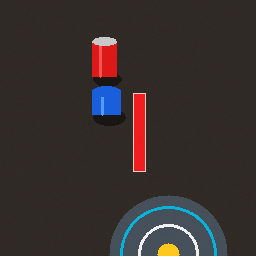
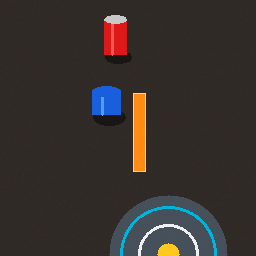
feat: implement sequential task queueing, unique object trajectory profiles, and center red pad alignment

Changed region(s): [[0.3438, 0.0312, 0.5, 0.3438], [0.5, 0.3438, 0.5938, 0.6875]]

diff --git a/src/vla_motion_planning/vla_motion_planning/trajectory_executor_node.py b/src/vla_motion_planning/vla_motion_planning/trajectory_executor_node.py
@@ -146,6 +146,8 @@ class TrajectoryExecutorNode(Node):
         self.planned_path_points = []
         self.delivered_payload = None
         self.delivered_objects = set()
+        self.pending_tasks_queue = []
+        self.current_trajectory_color = (0.0, 0.75, 0.95, 0.90)
 
         self.timer = self.create_timer(0.02, self.control_tick) # 50 Hz control loop
         self.get_logger().info('VLA Trajectory Executor & Dynamic Object Reparenting online.')
@@ -206,40 +208,44 @@ class TrajectoryExecutorNode(Node):
             self.get_logger().error(f'Error applying VLA delta action: {e}')
 
     def dispatch_callback(self, msg):
-        if self.is_executing:
-            self.get_logger().warning('Currently executing another trajectory. Ignoring new dispatch.')
-            return
-
         try:
             plan = json.loads(msg.data)
-            target_frame = plan['target_frame']
-            dest_frame = plan['destination_frame']
-            avoid_obs = plan.get('avoid_obstacle', True)
-
-            if target_frame in self.delivered_objects:
-                self.delivered_objects.remove(target_frame)
-
-            try:
-                t_obj = self.tf_buffer.lookup_transform('base_link', target_frame, rclpy.time.Time())
-                p_src = np.array([t_obj.transform.translation.x, t_obj.transform.translation.y, t_obj.transform.translation.z])
-            except Exception:
-                p_src = np.array(self.objects[target_frame]['pos'])
-
-            # Resolve Dedicated Non-Overlapping Target Slot for this payload
-            p_dst = np.array(self.docking_slots.get(target_frame, self.platform['pos']))
-
-            self.get_logger().info(f'Planning Collision-Aware Trajectory from {p_src} to {p_dst} (Obstacle Avoidance={avoid_obs})...')
-            self.build_collision_aware_trajectory(p_src, p_dst, target_frame, avoid_obs)
-            self.is_executing = True
-
+            if self.is_executing:
+                self.pending_tasks_queue.append(plan)
+                self.get_logger().info(
+                    f'>>> TASK QUEUED: [{plan.get("target_name", "Object")}] added to pending queue. '
+                    f'Total queued: {len(self.pending_tasks_queue)}'
+                )
+                return
+            self.execute_plan(plan)
         except Exception as e:
-            self.get_logger().error(f'Failed resolving TF target poses: {e}')
+            self.get_logger().error(f'Failed parsing task dispatch: {e}')
+
+    def execute_plan(self, plan):
+        target_frame = plan['target_frame']
+        dest_frame = plan['destination_frame']
+        avoid_obs = plan.get('avoid_obstacle', True)
+
+        if target_frame in self.delivered_objects:
+            self.delivered_objects.remove(target_frame)
+
+        try:
+            t_obj = self.tf_buffer.lookup_transform('base_link', target_frame, rclpy.time.Time())
+            p_src = np.array([t_obj.transform.translation.x, t_obj.transform.translation.y, t_obj.transform.translation.z])
+        except Exception:
+            p_src = np.array(self.objects[target_frame]['pos'])
+
+        # Resolve Dedicated Non-Overlapping Target Slot for this payload
+        p_dst = np.array(self.docking_slots.get(target_frame, self.platform['pos']))
+
+        self.get_logger().info(f'Planning Collision-Aware Trajectory for {target_frame} from {p_src} to {p_dst} (Obstacle Avoidance={avoid_obs})...')
+        self.build_collision_aware_trajectory(p_src, p_dst, target_frame, avoid_obs)
+        self.is_executing = True
 
     def build_collision_aware_trajectory(self, p_src, p_dst, obj_name, avoid_obs):
         self.trajectory_queue.clear()
         self.planned_path_points.clear()
         hover_z = 0.18
-        high_corridor_z = 0.44
 
         p_src_hover = p_src + np.array([0, 0, hover_z])
         p_dst_hover = p_dst + np.array([0, 0, hover_z])
@@ -256,39 +262,44 @@ class TrajectoryExecutorNode(Node):
         self.trajectory_queue.append(('ATTACH', obj_name, 0.1))
         self.add_cartesian_segment(p_src_hover, gripper=0.015, duration=1.2)
 
-        # 2. Strict Collision Avoidance Transit: High Bridge Corridor
-        if avoid_obs:
-            # Check if trajectory intersects the obstacle barrier corridor (Y in [-0.08, 0.18])
-            y_start, y_end = p_src[1], p_dst[1]
-            if (y_start < 0.05 < y_end) or (y_end < 0.05 < y_start):
-                # 3-point high clearance plateau bridge over the barrier
-                # 2.1 Climb up before reaching the obstacle zone
-                wp_climb = np.array([p_src[0], -0.12 if y_start < y_end else 0.22, high_corridor_z])
-                self.planned_path_points.append(list(wp_climb))
-                self.add_cartesian_segment(wp_climb, gripper=0.015, duration=1.8)
+        # 2. Unique, Specialized Trajectory Profiles per Object
+        if obj_name == 'blue_box':
+            # Profile 1 (Blue Mug): Flank Bypass Sweep around obstacle perimeter
+            self.current_trajectory_color = (0.15, 0.55, 1.0, 0.95) # Royal Azure
+            wp_flank1 = np.array([0.48, 0.00, 0.32])
+            wp_flank2 = np.array([0.48, 0.15, 0.32])
+            self.planned_path_points.append(list(wp_flank1))
+            self.add_cartesian_segment(wp_flank1, gripper=0.015, duration=1.8)
+            self.planned_path_points.append(list(wp_flank2))
+            self.add_cartesian_segment(wp_flank2, gripper=0.015, duration=1.8)
 
-                # 2.2 Cruise horizontally directly over the obstacle with generous vertical clearance (>22cm)
-                wp_cross = np.array([0.40, 0.05, high_corridor_z])
-                self.planned_path_points.append(list(wp_cross))
-                self.add_cartesian_segment(wp_cross, gripper=0.015, duration=1.5)
+        elif obj_name == 'green_box':
+            # Profile 2 (Green Flask): Long-Span Trans-Workspace High Arch
+            self.current_trajectory_color = (0.15, 0.95, 0.35, 0.95) # Neon Emerald
+            wp_arch1 = np.array([0.35, -0.18, 0.46])
+            wp_apex = np.array([0.36, 0.05, 0.46])
+            wp_arch2 = np.array([0.35, 0.24, 0.46])
+            for wp in [wp_arch1, wp_apex, wp_arch2]:
+                self.planned_path_points.append(list(wp))
+                self.add_cartesian_segment(wp, gripper=0.015, duration=1.5)
 
-                # 2.3 Maintain altitude until completely past the obstacle boundary
-                wp_clear = np.array([p_dst[0], 0.22 if y_start < y_end else -0.12, high_corridor_z])
-                self.planned_path_points.append(list(wp_clear))
-                self.add_cartesian_segment(wp_clear, gripper=0.015, duration=1.8)
-            else:
-                # Midpoint clearance arc for non-crossing movements
-                midpoint = (p_src_hover + p_dst_hover) / 2.0
-                midpoint[2] = high_corridor_z
-                self.planned_path_points.append(list(midpoint))
-                self.add_cartesian_segment(midpoint, gripper=0.015, duration=2.2)
+        else:
+            # Profile 3 (Red Can / Default): Strict High Bridge Plateau
+            self.current_trajectory_color = (0.95, 0.15, 0.15, 0.95) # Vibrant Crimson
+            high_corridor_z = 0.44
+            wp_climb = np.array([p_src[0], -0.12, high_corridor_z])
+            wp_cross = np.array([0.38, 0.05, high_corridor_z])
+            wp_clear = np.array([p_dst[0], 0.20, high_corridor_z])
+            for wp in [wp_climb, wp_cross, wp_clear]:
+                self.planned_path_points.append(list(wp))
+                self.add_cartesian_segment(wp, gripper=0.015, duration=1.5)
 
         self.planned_path_points.append(list(p_dst_hover))
         self.planned_path_points.append(list(p_dst + np.array([0, 0, 0.05])))
         self.planned_path_points.append(list(p_dst_hover))
 
         # 3. Transfer to Destination and Place
-        self.add_cartesian_segment(p_dst_hover, gripper=0.015, duration=2.0)
+        self.add_cartesian_segment(p_dst_hover, gripper=0.015, duration=1.8)
         self.add_cartesian_segment(p_dst + np.array([0, 0, 0.05]), gripper=0.015, duration=1.5)
         self.trajectory_queue.append(('DETACH', obj_name, 0.1))
         self.trajectory_queue.append(('GRIP', 0.035, 0.8)) # Open gripper
@@ -381,6 +392,14 @@ class TrajectoryExecutorNode(Node):
             if self.is_executing:
                 self.is_executing = False
                 self.get_logger().info('>>> VLA Pick-and-Place Task completed successfully!')
+                # Dispatch next task from queue automatically
+                if self.pending_tasks_queue:
+                    next_plan = self.pending_tasks_queue.pop(0)
+                    self.get_logger().info(
+                        f'>>> Executing Next Queued Task: [{next_plan.get("target_name")}] '
+                        f'({len(self.pending_tasks_queue)} remaining in queue)'
+                    )
+                    self.execute_plan(next_plan)
 
         # 3. Publish Robot Joint States
         js = JointState()
@@ -512,7 +531,7 @@ class TrajectoryExecutorNode(Node):
         m_dock_base.color.r, m_dock_base.color.g, m_dock_base.color.b, m_dock_base.color.a = (0.28, 0.32, 0.38, 1.0)
         markers.markers.append(m_dock_base)
 
-        # 2. Outer Glowing Cyan Target Ring
+        # 2. Outer Glowing Cyan Target Perimeter
         m_dock_ring1 = Marker()
         m_dock_ring1.header.stamp = stamp
         m_dock_ring1.header.frame_id = 'base_link'
@@ -523,34 +542,19 @@ class TrajectoryExecutorNode(Node):
         m_dock_ring1.pose.position.x, m_dock_ring1.pose.position.y = dx, dy
         m_dock_ring1.pose.position.z = 0.017
         m_dock_ring1.pose.orientation.w = 1.0
-        m_dock_ring1.scale.x = m_dock_ring1.scale.y = 0.21
+        m_dock_ring1.scale.x = m_dock_ring1.scale.y = 0.24
         m_dock_ring1.scale.z = 0.003
         m_dock_ring1.color.r, m_dock_ring1.color.g, m_dock_ring1.color.b, m_dock_ring1.color.a = (0.0, 0.75, 0.95, 0.90)
         markers.markers.append(m_dock_ring1)
 
-        # 3. Middle White Alignment Ring
-        m_dock_ring2 = Marker()
-        m_dock_ring2.header.stamp = stamp
-        m_dock_ring2.header.frame_id = 'base_link'
-        m_dock_ring2.ns = 'dock'
-        m_dock_ring2.id = 22
-        m_dock_ring2.type = Marker.CYLINDER
-        m_dock_ring2.action = Marker.ADD
-        m_dock_ring2.pose.position.x, m_dock_ring2.pose.position.y = dx, dy
-        m_dock_ring2.pose.position.z = 0.018
-        m_dock_ring2.pose.orientation.w = 1.0
-        m_dock_ring2.scale.x = m_dock_ring2.scale.y = 0.13
-        m_dock_ring2.scale.z = 0.003
-        m_dock_ring2.color.r, m_dock_ring2.color.g, m_dock_ring2.color.b, m_dock_ring2.color.a = (0.95, 0.95, 0.98, 0.95)
-        markers.markers.append(m_dock_ring2)
-
-        # 4. Multi-Bay Staging Pads (Bay 01A - Red Can, Bay 01B - Blue Mug, Bay 01C - Green Flask)
+        # 3. Dedicated Multi-Bay Staging Landing Pads (Bay 01A - Red Can, Bay 01B - Blue Mug, Bay 01C - Green Flask)
         bay_pads = [
-            (30, 0.30, 0.25, (0.90, 0.25, 0.25, 0.85)), # Bay A (West: Can)
-            (31, 0.40, 0.25, (0.25, 0.55, 0.95, 0.85)), # Bay B (East: Mug)
-            (32, 0.35, 0.35, (0.25, 0.85, 0.45, 0.85)), # Bay C (North: Flask)
+            (30, 0.30, 0.25, (0.88, 0.15, 0.15, 0.90)), # Bay 01A (West: Soda Can)
+            (31, 0.40, 0.25, (0.15, 0.55, 0.95, 0.90)), # Bay 01B (East: Ceramic Mug)
+            (32, 0.35, 0.35, (0.15, 0.85, 0.35, 0.90)), # Bay 01C (North: Specimen Flask)
         ]
         for pad_id, px, py, p_col in bay_pads:
+            # Landing Pad Disk
             m_pad = Marker()
             m_pad.header.stamp = stamp
             m_pad.header.frame_id = 'base_link'
@@ -561,12 +565,12 @@ class TrajectoryExecutorNode(Node):
             m_pad.pose.position.x, m_pad.pose.position.y = px, py
             m_pad.pose.position.z = 0.019
             m_pad.pose.orientation.w = 1.0
-            m_pad.scale.x = m_pad.scale.y = 0.068
+            m_pad.scale.x = m_pad.scale.y = 0.080
             m_pad.scale.z = 0.003
             m_pad.color.r, m_pad.color.g, m_pad.color.b, m_pad.color.a = p_col
             markers.markers.append(m_pad)
 
-            # Central alignment target pin
+            # Golden Center Target Pin
             m_pin = Marker()
             m_pin.header.stamp = stamp
             m_pin.header.frame_id = 'base_link'
@@ -577,7 +581,7 @@ class TrajectoryExecutorNode(Node):
             m_pin.pose.position.x, m_pin.pose.position.y = px, py
             m_pin.pose.position.z = 0.021
             m_pin.pose.orientation.w = 1.0
-            m_pin.scale.x = m_pin.scale.y = 0.022
+            m_pin.scale.x = m_pin.scale.y = 0.024
             m_pin.scale.z = 0.004
             m_pin.color.r, m_pin.color.g, m_pin.color.b, m_pin.color.a = (1.0, 0.85, 0.15, 1.0)
             markers.markers.append(m_pin)
@@ -875,8 +879,8 @@ class TrajectoryExecutorNode(Node):
             m_path.id = 90
             m_path.type = Marker.LINE_STRIP
             m_path.action = Marker.ADD
-            m_path.scale.x = 0.008 # Ribbon thickness
-            m_path.color.r, m_path.color.g, m_path.color.b, m_path.color.a = (0.0, 0.75, 0.95, 0.90)
+            m_path.scale.x = 0.010 # Ribbon thickness
+            m_path.color.r, m_path.color.g, m_path.color.b, m_path.color.a = self.current_trajectory_color
             for wp in self.planned_path_points:
                 p = Point()
                 p.x, p.y, p.z = float(wp[0]), float(wp[1]), float(wp[2])

diff --git a/src/vla_perception/vla_perception/camera_stream_node.py b/src/vla_perception/vla_perception/camera_stream_node.py
@@ -224,7 +224,7 @@ class CameraStreamNode(Node):
                 rgb,
                 (u_b - w_pix // 2, v_b - h_pix // 2),
                 (u_b + w_pix // 2, v_b + h_pix // 2),
-                (30, 30, 240), # Glowing red laser barrier
+                (20, 140, 255), # Glowing amber laser barrier (matches RViz, excludes red detector)
                 -1
             )
             cv2.rectangle(
